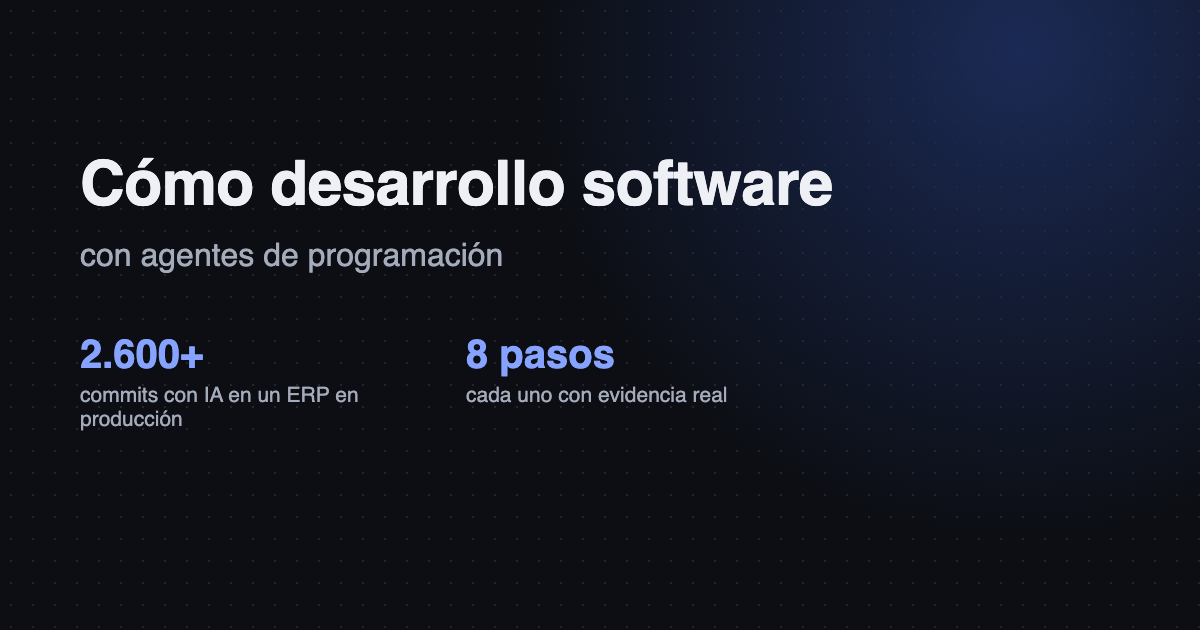
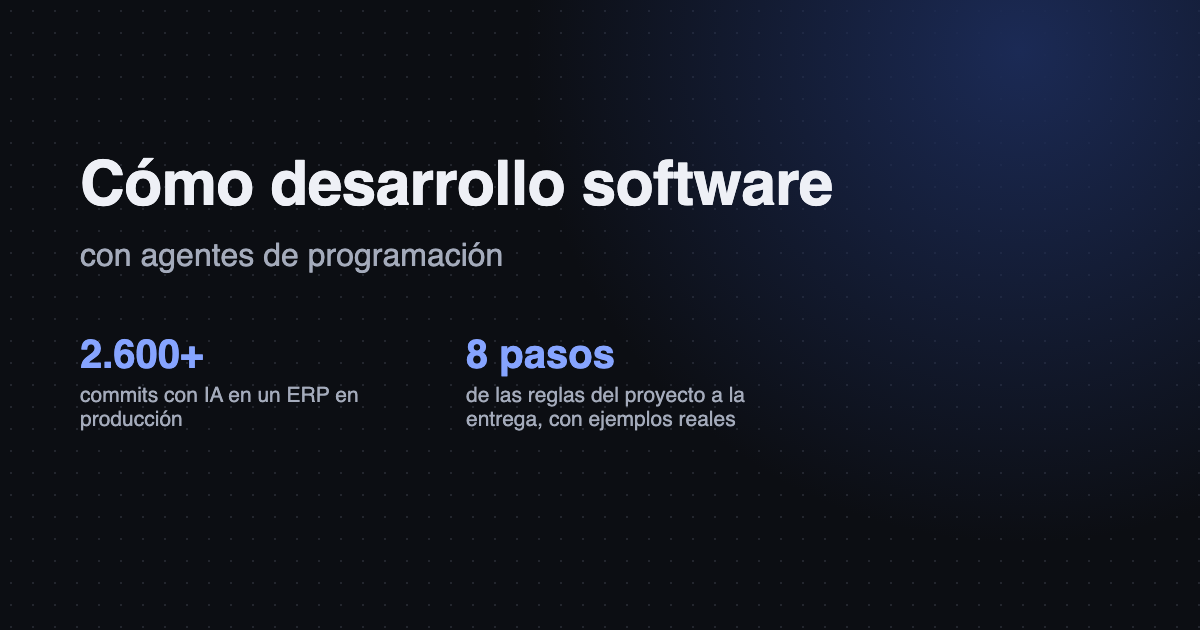
Share cards: judge Chrome by the file it writes, and stop promising evidence at every step

Changed region(s): [[0.37, 0.6032, 0.6167, 0.6937]]

diff --git a/blog/build_og.py b/blog/build_og.py
@@ -35,8 +35,13 @@ def main():
             cells = "".join(f"<div><b>{html.escape(n)}</b><span>{html.escape(t)}</span></div>" for n, t in stats)
             page = pathlib.Path(tmp) / f"{name}.html"
             page.write_text(PAGE.format(title=html.escape(title), sub=html.escape(sub), stats=cells), encoding="utf-8")
-            subprocess.run([CHROME, "--headless", "--disable-gpu", "--hide-scrollbars", "--window-size=1200,630",
-                            f"--screenshot={ROOT / f'og-{name}.png'}", page.as_uri()], check=True, capture_output=True)
+            out = ROOT / f"og-{name}.png"
+            out.unlink(missing_ok=True)
+            # Chrome can exit non-zero while shutting down after writing the file, so the file is what counts.
+            result = subprocess.run([CHROME, "--headless", "--disable-gpu", "--no-sandbox", f"--user-data-dir={tmp}/chrome", "--hide-scrollbars",
+                                     "--window-size=1200,630", f"--screenshot={out}", page.as_uri()], stderr=subprocess.PIPE, stdout=subprocess.DEVNULL, text=True)
+            if not out.exists():
+                raise SystemExit(f"Chrome did not write {out.name}: {result.stderr[-500:]}")
             print(f"og-{name}.png")
 
 
